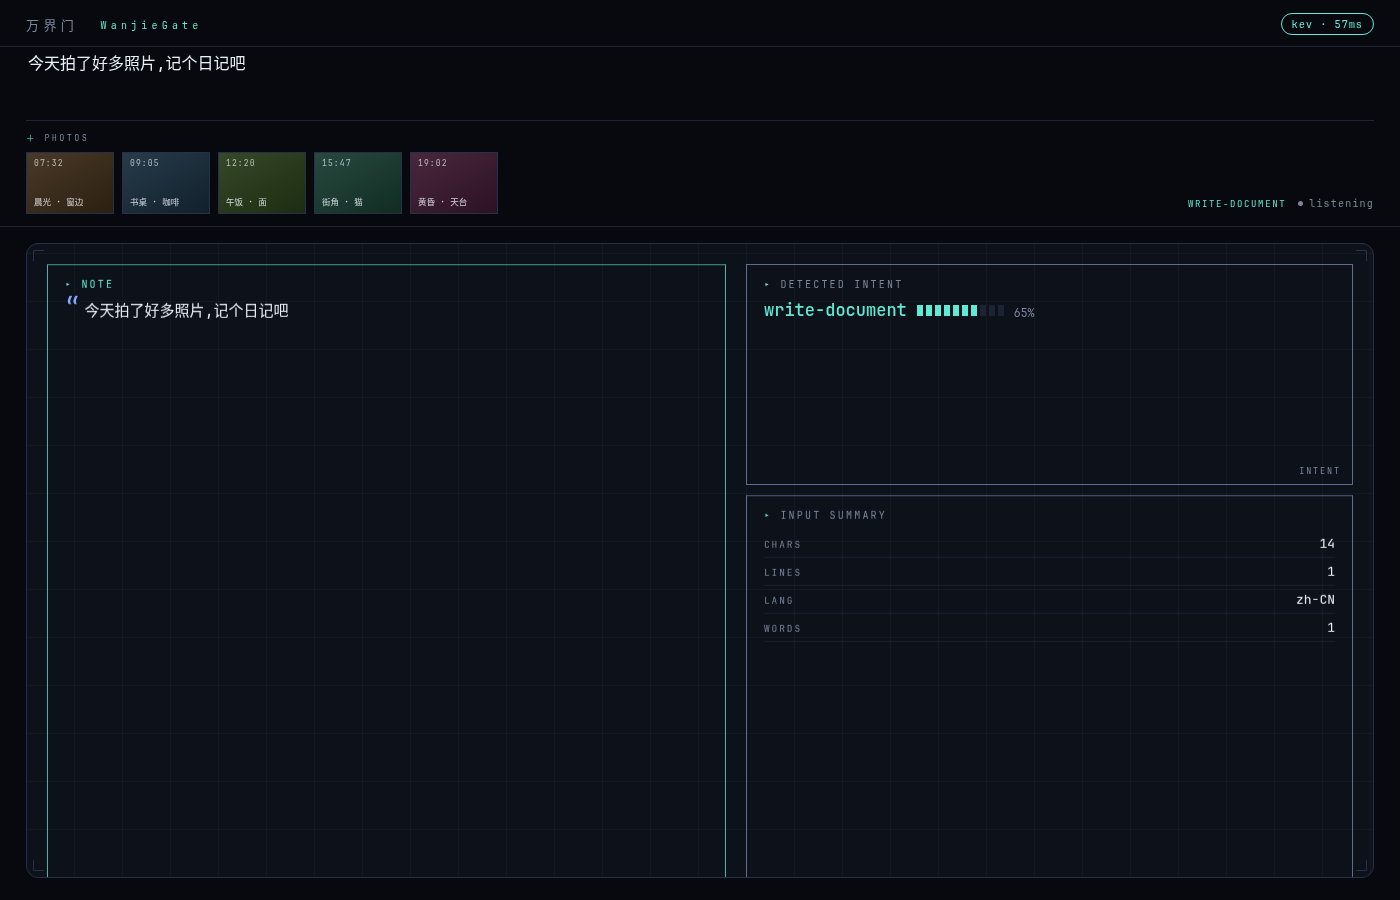
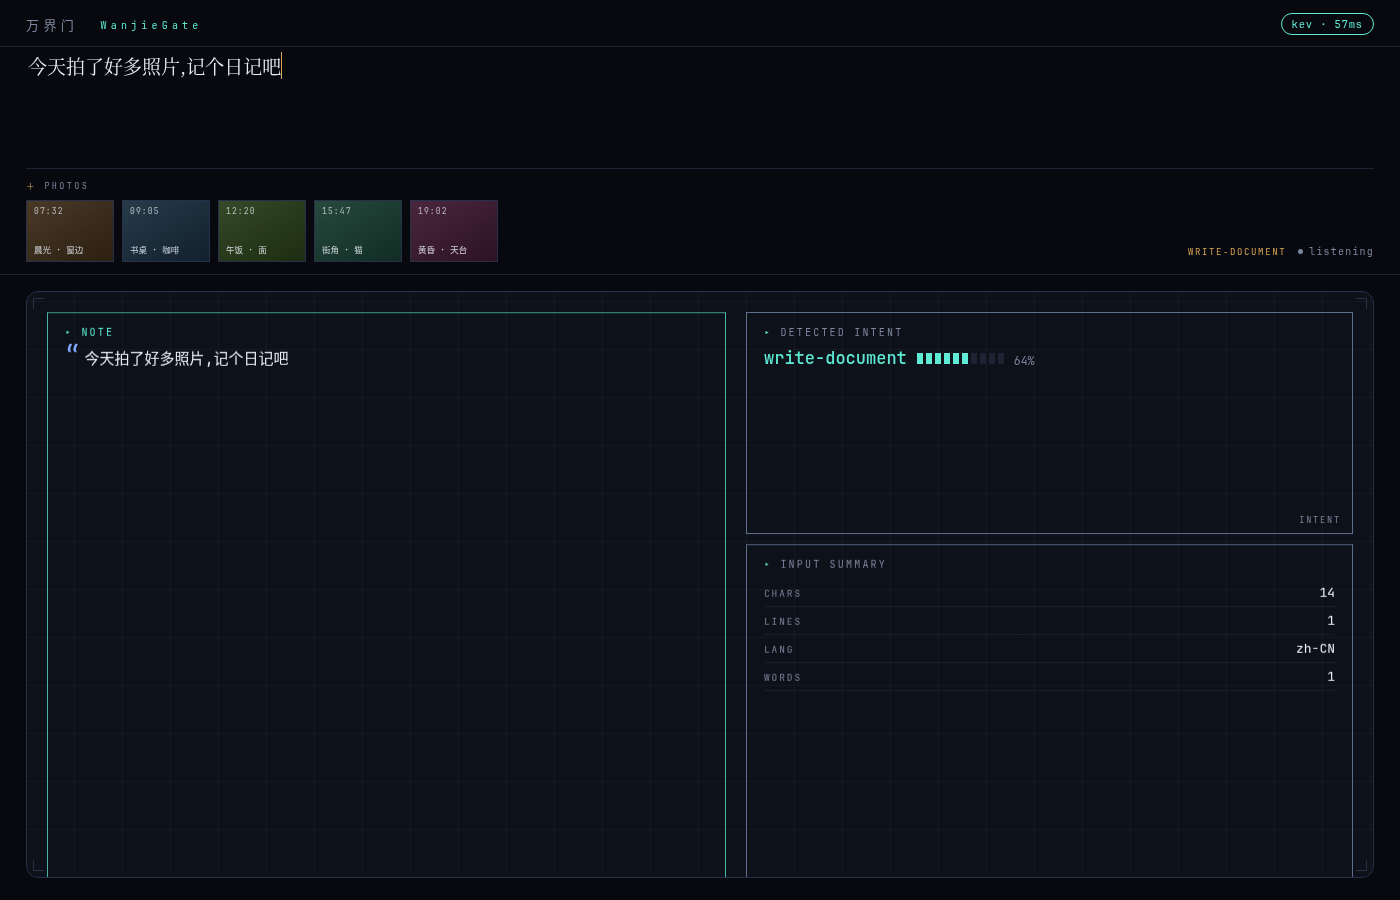
输入框成为随意图变形的状态 + 朋友圈语境
- #composer 挂 data-cmode:caret/mode 标签/脉冲点颜色按意图切换,
  write-document 变高并换衬线字体,plan-work 微增高,平滑过渡
- 新意图 check-social + moments 附件(好友动态 feed):
  "我的朋友们最近都咋样了" → 输入框下浮现朋友圈
- 自测新增 cmode 断言:日记→write-document,社交→check-social+moments

Generated with [Devin](https://devin.ai)

diff --git a/static/app.js b/static/app.js
@@ -5,7 +5,7 @@
 "use strict";
 
 const $ = s => document.querySelector(s);
-const stage = $("#stage"), input = $("#input"), conn = $("#conn"), pulse = $("#pulse"), debug = $("#debug");
+const stage = $("#stage"), input = $("#input"), conn = $("#conn"), pulse = $("#pulse"), debug = $("#debug"), composer = $("#composer");
 
 const MOCK = new URLSearchParams(location.search).has("mock");
 const DEBOUNCE_MS = 320;
@@ -98,6 +98,7 @@ function applyAnswers(a) {
   if (a.intent) {
     $("#mode").textContent = committed ? intent.choice : "";
     input.placeholder = (manifest.prompts || {})[intent.choice] || manifest.prompts?.explore || input.placeholder;
+    composer.dataset.cmode = intent.choice;   // 输入框本身也是状态,随意图头名即时变形
   }
   const probs = {};
   for (const id of Object.keys(manifest.components))
@@ -166,6 +167,9 @@ function buildAttach(ctx) {
     case "datasets":
       return head + `<div class="a-chips">${Object.keys(manifest.datasets).map(k =>
         `<button class="a-chip" onclick="window.__rebind('${k}')">${k}</button>`).join("")}</div>`;
+    case "moments":
+      return head + (items || []).map(m =>
+        `<div class="a-row"><i>${m.time}</i><b class="who" style="--h:${m.hue}">${esc(m.who)}</b><span>${esc(m.text)}</span><b>${m.meta}</b></div>`).join("");
     case "services":
       return head + `<div class="a-chips">${(items || []).map(s =>
         `<span class="a-svc ${s.ok ? "ok" : "bad"}"><i></i>${s.name}</span>`).join("")}</div>`;
@@ -417,12 +421,12 @@ async function mockDecide() {
     const noise = 0.25 + (hit ? 0.55 : 0) + Math.random() * 0.15;
     answers["vis_" + id] = {type: "noul", noul: Math.min(0.98, latestText.length > 2 ? noise : noise * 0.4)};
   }
-  const intentMap = [["analyze-data", /数据|指标|销售|营收|data|metric/i], ["report-issue", /错误|故障|bug|挂了|alert/i], ["plan-work", /计划|任务|步骤|plan|todo/i], ["monitor-status", /监控|状态|monitor|latency/i], ["write-document", /写|文章|文档|note|draft/i]];
+  const intentMap = [["analyze-data", /数据|指标|销售|营收|data|metric/i], ["report-issue", /错误|故障|bug|挂了|alert/i], ["plan-work", /计划|任务|步骤|plan|todo/i], ["monitor-status", /监控|状态|monitor|latency/i], ["write-document", /写|文章|文档|note|draft/i], ["check-social", /朋友|大家|谁.*咋样|friend|social/i]];
   const top = intentMap.find(([, kw]) => kw.test(latestText));
   const ip = {}; for (const [k] of intentMap) ip[k] = 0.05; ip.explore = 0.1;
   if (top) ip[top[0]] = 0.7; else ip.explore = 0.6;
   answers.intent = {type: "choice", choice: top ? top[0] : "explore", confidence: top ? 0.7 : 0.3, probabilities: ip};
-  const ctxMap = [["photos", /日记|照片|今天.*拍|journal|diary/i], ["news", /文章|新闻|报道|article|news|essay/i], ["logs", /错误|日志|bug|报错|log/i], ["tasks", /任务|计划|安排|todo|task/i], ["datasets", /数据|营收|sales|traffic|chart/i], ["services", /服务|监控|status|service/i]];
+  const ctxMap = [["photos", /日记|照片|今天.*拍|journal|diary/i], ["news", /文章|新闻|报道|article|news|essay/i], ["logs", /错误|日志|bug|报错|log/i], ["tasks", /任务|计划|安排|todo|task/i], ["datasets", /数据|营收|sales|traffic|chart/i], ["services", /服务|监控|status|service/i], ["moments", /朋友|大家|谁.*咋样|friend|social|朋友圈/i]];
   for (const [ctx, kw] of ctxMap) answers["att_" + ctx] = {type: "noul", noul: kw.test(latestText) ? 0.8 : 0.15};
   answers.layout = {type: "choice", choice: latestText.length < 4 ? "empty" : (Object.values(answers).filter(a => a.noul > SOLID).length > 3 ? "dashboard" : "split"), probabilities: {}};
   answers.density = {type: "score", score: latestText.length < 4 ? 0 : 3, probabilities: {}, legend: {}};
@@ -452,6 +456,7 @@ function clearScene() {
   attachEl.innerHTML = ""; attachEl.classList.remove("on");
   $("#mode").textContent = "";
   input.placeholder = manifest.prompts?.explore || "";
+  composer.dataset.cmode = "";
   for (const c of cards.values()) { c.prob = 0; c.target = 0; c.el.dataset.p = "0"; c.el.dataset.target = "0"; }
   dirty.layout = dirty.debug = true;
 }

diff --git a/static/styles.css b/static/styles.css
@@ -32,12 +32,25 @@ header {
 
 /* ---------- 输入区 ---------- */
 #composer {
+  --cm: var(--accent);
   position: relative; flex: none;
   padding: 2px 26px 12px;
   border-bottom: 1px solid var(--line);
   transition: margin-top .7s cubic-bezier(.22,1.1,.3,1),
               width .7s cubic-bezier(.22,1.1,.3,1);
 }
+/* 输入框本身也是状态:每个意图一套气质(颜色 / 体量 / 字体) */
+#composer[data-cmode="analyze-data"]    { --cm: var(--accent); }
+#composer[data-cmode="write-document"]  { --cm: #d8a657; }
+#composer[data-cmode="monitor-status"]  { --cm: var(--warn); }
+#composer[data-cmode="report-issue"]    { --cm: var(--warn); }
+#composer[data-cmode="plan-work"]       { --cm: var(--accent-2); }
+#composer[data-cmode="check-social"]    { --cm: #c586d8; }
+#app:not(.idle) #composer[data-cmode="write-document"] #input {
+  min-height: 104px; font-size: 19px;
+  font-family: "Noto Serif CJK SC", "Source Han Serif SC", "Songti SC", serif;
+}
+#app:not(.idle) #composer[data-cmode="plan-work"] #input { min-height: 72px; }
 /* idle: 屏幕上只有居中的输入框 */
 #app.idle #composer { margin-top: 33vh; width: min(680px, 100%); align-self: center; border-bottom-color: var(--hair); }
 #app.idle #input { font-size: 25px; min-height: 64px; }
@@ -45,21 +58,24 @@ header {
   width: 100%; min-height: 56px; max-height: 26vh; resize: none;
   background: transparent; border: none; outline: none;
   color: var(--text); font-size: 16px; line-height: 1.6; font-family: inherit;
-  caret-color: var(--accent);
-  transition: font-size .7s cubic-bezier(.22,1.1,.3,1);
+  caret-color: var(--cm, var(--accent));
+  transition: font-size .7s cubic-bezier(.22,1.1,.3,1),
+              min-height .7s cubic-bezier(.22,1.1,.3,1),
+              caret-color .4s;
 }
 #input::placeholder { color: #39425a; }
 #pulse { position: absolute; right: 26px; bottom: 16px; font-size: 10px; letter-spacing: .12em; color: var(--dim); display: flex; gap: 6px; align-items: center; }
-#mode { color: var(--accent); font-size: 9px; letter-spacing: .18em; margin-right: 6px; text-transform: uppercase; }
+#mode { color: var(--cm, var(--accent)); font-size: 9px; letter-spacing: .18em; margin-right: 6px; text-transform: uppercase; }
 #pulse-dot { width: 5px; height: 5px; border-radius: 50%; background: var(--dim); transition: background .2s; }
-#pulse.thinking #pulse-dot { background: var(--accent); box-shadow: 0 0 8px var(--accent); }
+#pulse.thinking #pulse-dot { background: var(--cm, var(--accent)); box-shadow: 0 0 8px var(--cm, var(--accent)); }
 
 /* ---------- 输入框的自适应附件 ---------- */
 #attach { max-height: 0; overflow: hidden; opacity: 0; transform: translateY(-4px);
   transition: max-height .55s cubic-bezier(.22,1.1,.3,1), opacity .4s, transform .55s cubic-bezier(.22,1.1,.3,1); }
 #attach.on { max-height: 160px; opacity: 1; transform: none; margin-top: 10px; border-top: 1px solid var(--line); padding-top: 10px; }
 .a-head { font-size: 8.5px; letter-spacing: .28em; text-transform: uppercase; color: var(--dim); margin-bottom: 8px; }
-.a-head::before { content: "＋ "; color: var(--accent); }
+.a-head::before { content: "＋ "; color: var(--cm, var(--accent)); }
+.a-row b.who { color: hsl(var(--h), 60%, 65%); min-width: 40px; }
 .a-photos { display: flex; gap: 8px; }
 .a-ph { width: 88px; height: 62px; flex: none; position: relative; overflow: hidden;
   background: linear-gradient(150deg, hsl(var(--h), 30%, 22%), hsl(var(--h), 45%, 12%));

diff --git a/tools/selftest.py b/tools/selftest.py
@@ -86,8 +86,21 @@ with sync_playwright() as pw:
     cards, _ = state(page, "6-diary")
     attach_head = page.eval_on_selector("#attach .a-head", "e => e.textContent") if page.locator("#attach .a-head").count() else None
     n_ph = page.locator("#attach .a-ph").count()
-    print(f"  attach={attach_head} photos={n_ph}")
+    cmode = page.get_attribute("#composer", "data-cmode")
+    print(f"  attach={attach_head} photos={n_ph} cmode={cmode}")
     assert attach_head == "photos" and n_ph >= 3, f"日记语境应召出照片附件(got head={attach_head}, n={n_ph})"
+    assert cmode == "write-document", f"日记语境输入框应变形为 write-document(got {cmode})"
+
+    # 6) 社交语境 → 朋友圈浮现 + 输入框换 social 气质
+    page.fill("#input", "我的朋友们最近都咋样了")
+    page.wait_for_timeout(2200)
+    cards, _ = state(page, "7-social")
+    attach_head = page.eval_on_selector("#attach .a-head", "e => e.textContent") if page.locator("#attach .a-head").count() else None
+    n_mom = page.locator("#attach .a-row b.who").count()
+    cmode = page.get_attribute("#composer", "data-cmode")
+    print(f"  attach={attach_head} moments={n_mom} cmode={cmode}")
+    assert attach_head == "moments" and n_mom >= 3, f"社交语境应召出朋友圈(got head={attach_head}, n={n_mom})"
+    assert cmode == "check-social", f"社交语境输入框应变形为 check-social(got {cmode})"
 
     browser.close()
 
